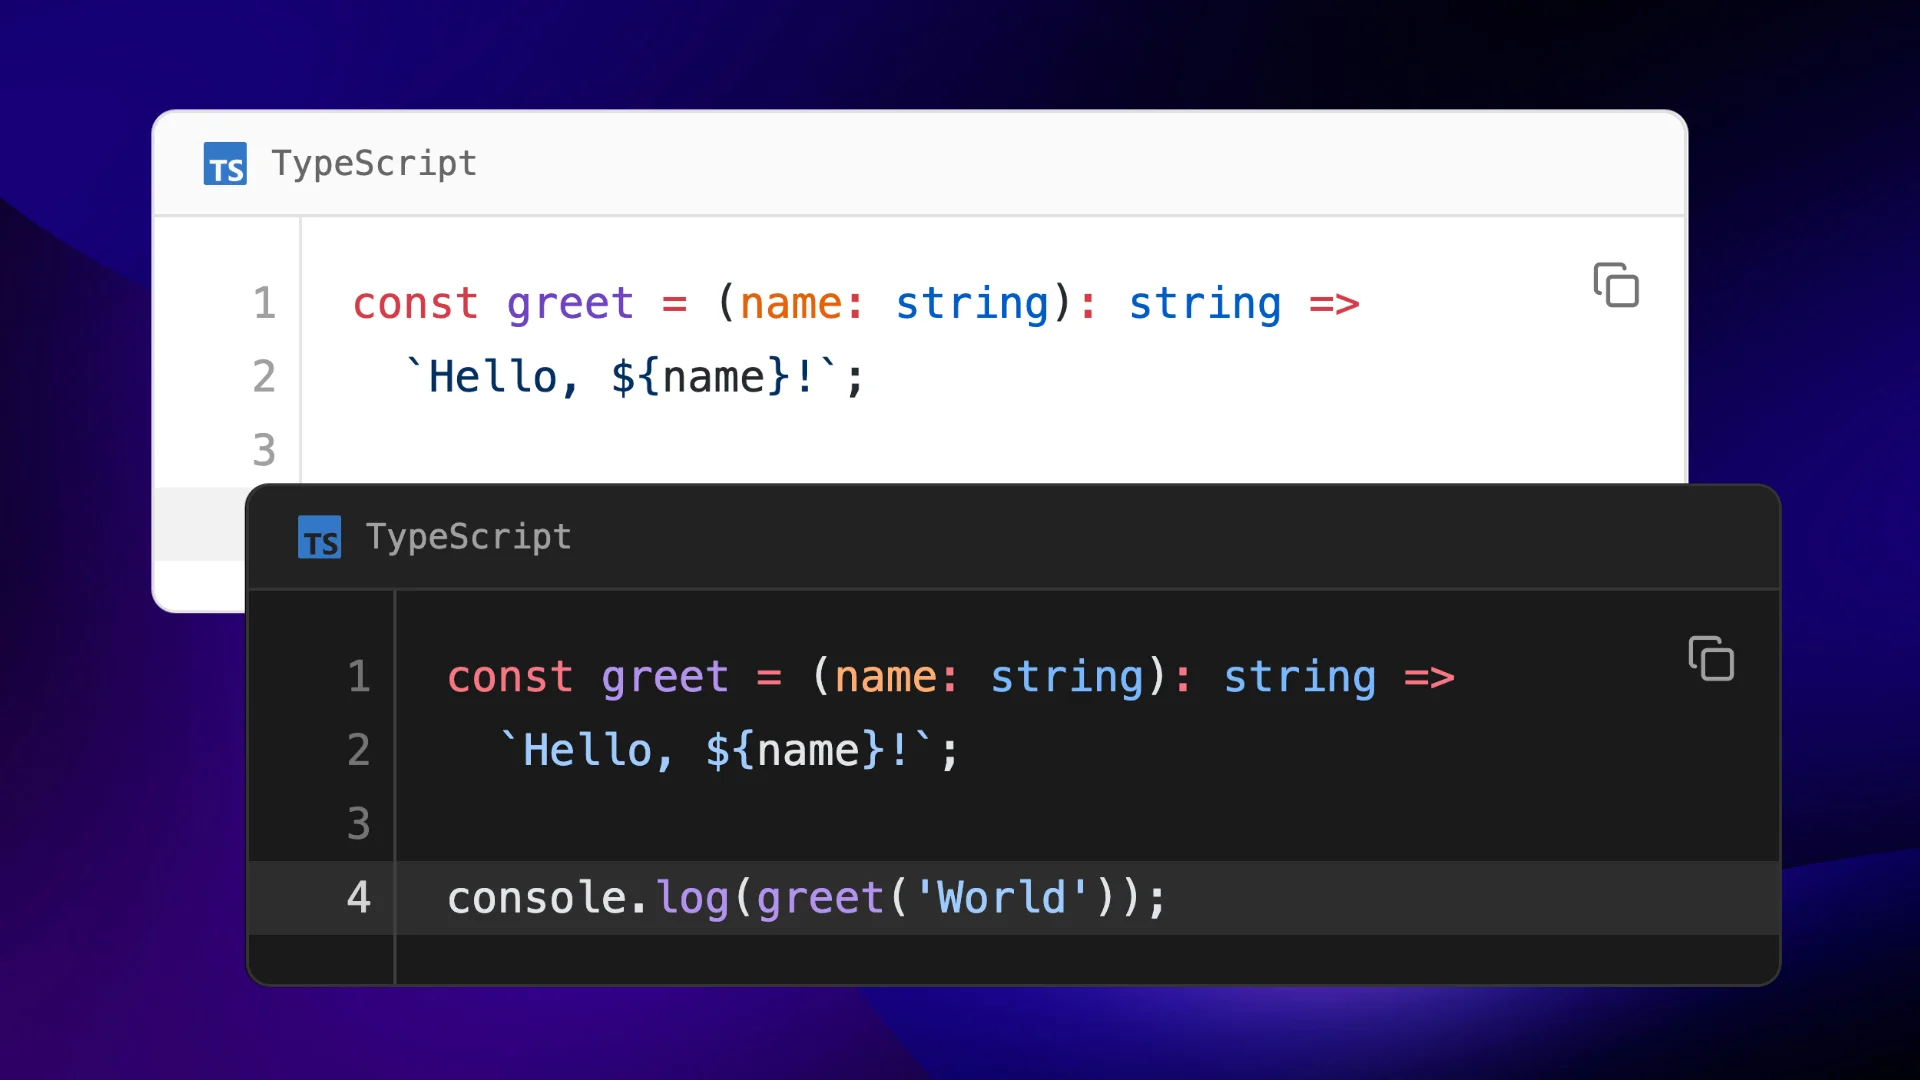
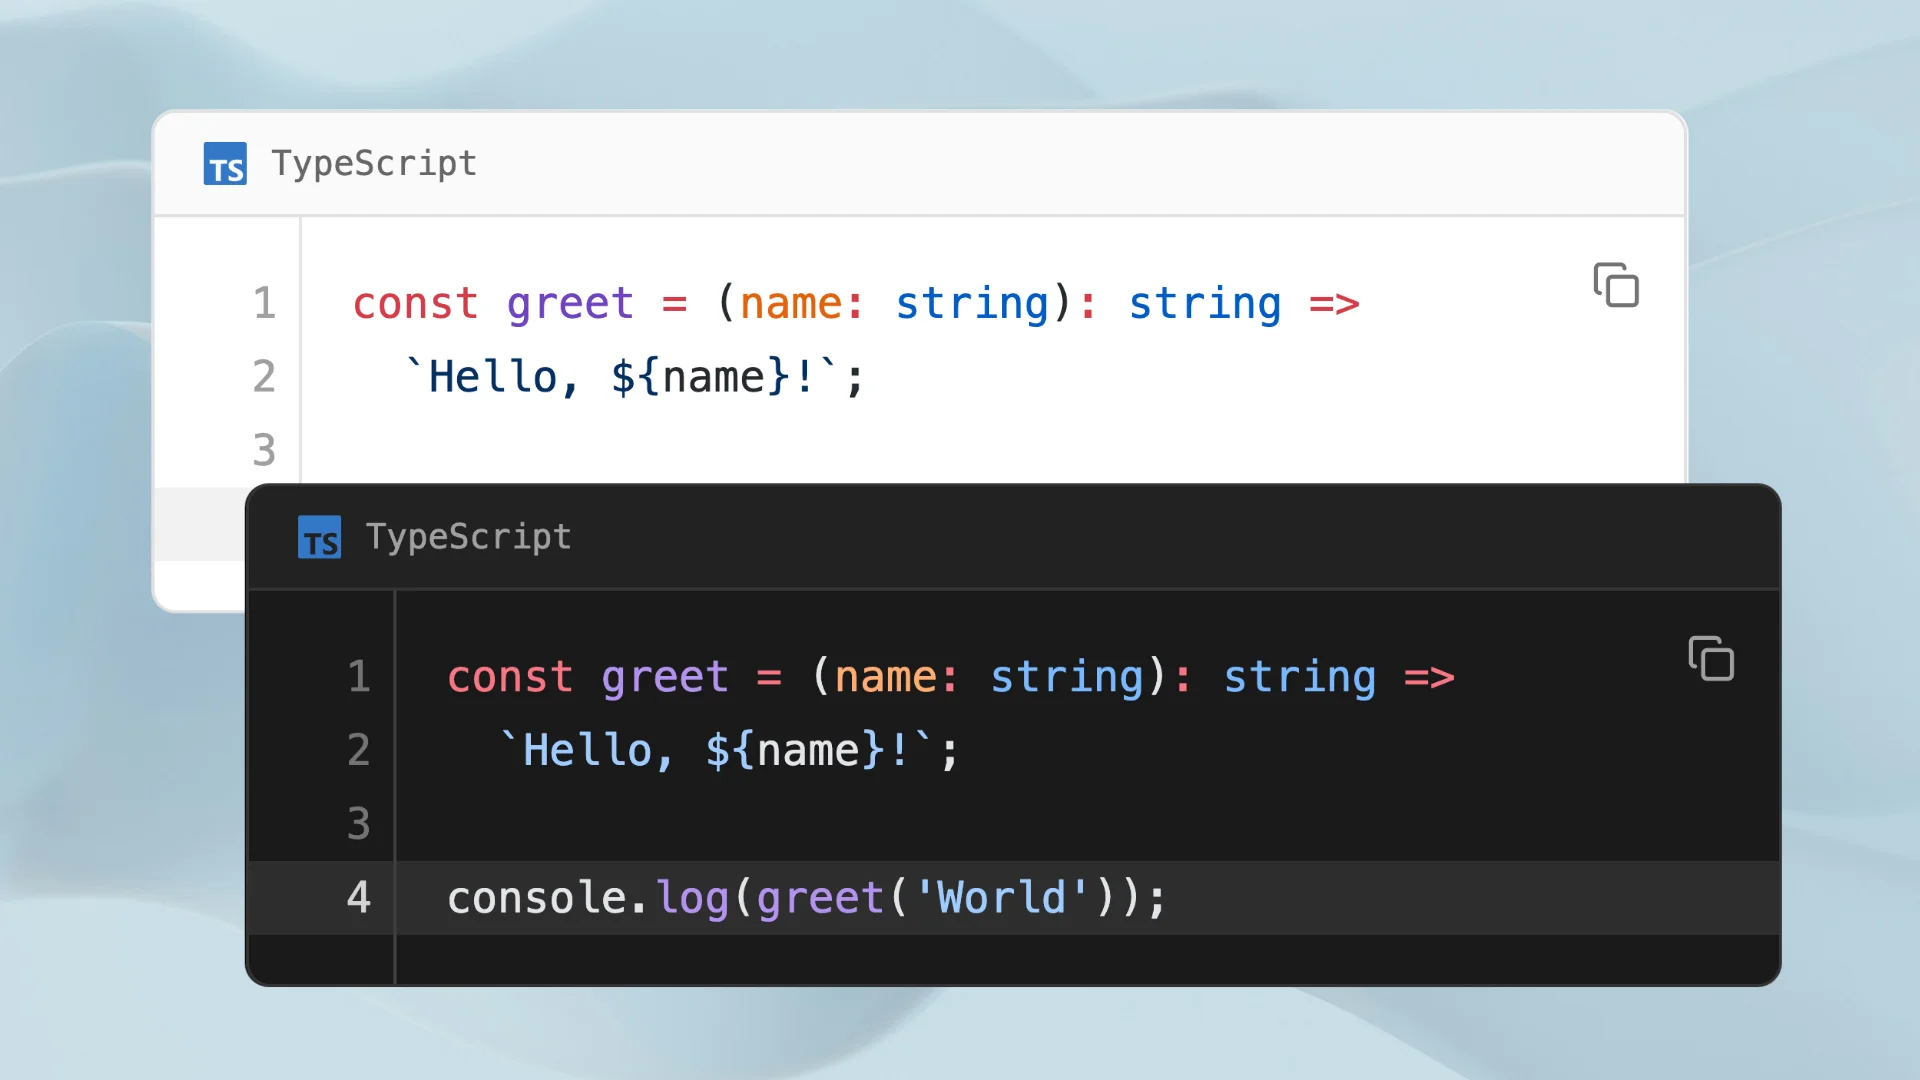
docs(docs-app): refresh home preview images and feature links
Replace and add preview webp assets, and point home feature cards to
the new copy-button, multi-tab, highlight-collapse, and reference
popover previews.

diff --git a/apps/docs-app/src/app/home/home.component.ts b/apps/docs-app/src/app/home/home.component.ts
@@ -196,7 +196,7 @@ export class HomeComponent {
       description:
         'Accessible copy control with success state and ARIA labels.',
       meta: 'Basics',
-      image: '/assets/previews/basic-usage.webp',
+      image: '/assets/previews/copy-button-build-in.webp',
       href: '/examples/basic-usage',
     },
     {
@@ -213,7 +213,7 @@ export class HomeComponent {
       description:
         'Compare files side by side or stack tabs on a single block.',
       meta: 'Layouts',
-      image: '/assets/previews/syntax-highlighting.webp',
+      image: '/assets/previews/multi-tab-and-column-views.webp',
       href: '/examples/multi-tab-viewer',
     },
     {
@@ -222,7 +222,7 @@ export class HomeComponent {
       description:
         'Spotlight ranges, fade the rest, or collapse noisy sections.',
       meta: 'Highlight',
-      image: '/assets/previews/syntax-highlighting.webp',
+      image: '/assets/previews/higlight-focus-collapse.webp',
       href: '/examples/line-highlighting',
     },
     {
@@ -231,7 +231,7 @@ export class HomeComponent {
       description:
         'Tippy-powered hovercards for symbols, lazy-loaded on demand.',
       meta: 'Interactive',
-      image: '/assets/previews/syntax-highlighting.webp',
+      image: '/assets/previews/reference-popovers.webp',
       href: '/examples/interactive-features',
     },
   ];
